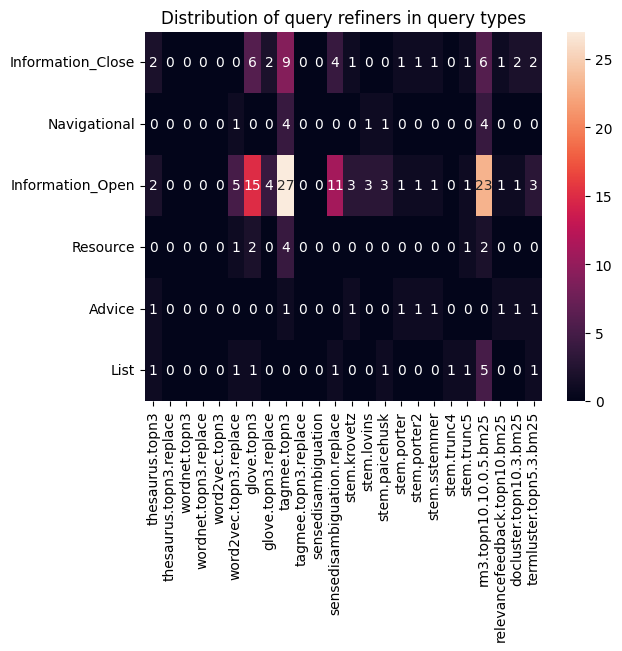
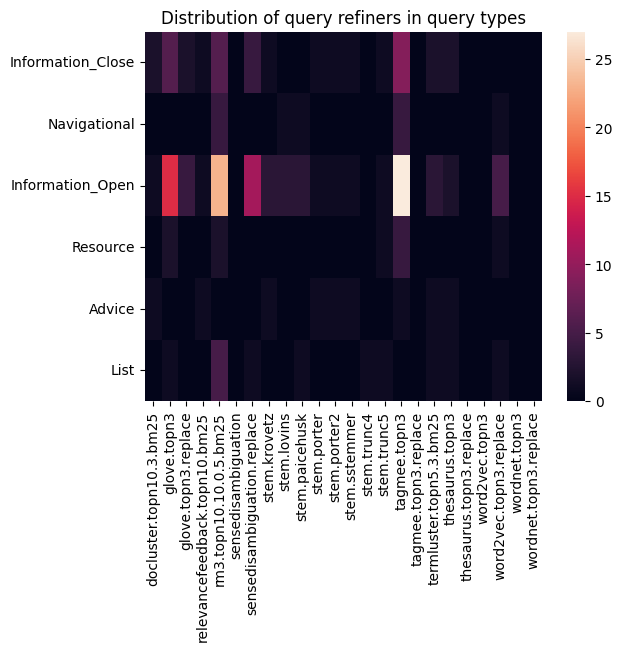
normalized heatmap (#22)

diff --git a/ds/trec09mq/refiners.qtypes.py b/ds/trec09mq/refiners.qtypes.py
@@ -24,51 +24,44 @@ def get_refiners_by_qtypes(all, dataset, qtypes, output):
         for i in range(1, row['star_model_count'] * 3, 3): result[row["Class"]][str(row[i + 3])] += 1
 
     result = pd.DataFrame.from_dict(result)
-    with open(output, 'wb') as f: pickle.dump(result, f)
+    with open(f'{output}refiners.qtypes.pkl', 'wb') as f: pickle.dump(result, f)
+    heatmap(result, f"{output}refiners.qtypes.png")
     return result
 
-def heatmap(matrix, output):
-    with open(matrix, 'rb') as f: df = pickle.load(f)
-    df=df.transpose()
-    sns.heatmap(df, annot=True)
+def heatmap(matrix, output, anot=False):
+    df=matrix.transpose()
+    sns.heatmap(df, annot=anot)
     plt.title("Distribution of query refiners in query types", fontsize=12)
     plt.savefig(output, bbox_inches='tight', dpi=100)
     plt.show()
 
-def normalize_by_qtype(all,raw_result,queryclass,output):
-    # load queryclass file and find the frequency
-    # laod the raw_result
-    # update the raw_result relative to the frequec
-    # dump the update (./'pkl)
-    # heat(update, output/ *png)
+def normalize_by_qtype(raw_result, queryclass, output):
     qtypes = pd.read_csv(queryclass, sep='\t', usecols=['Topic', 'Class'])
-    refiners = pd.read_csv(all, index_col=0, nrows=0).columns[3::3]
     qtypes_counts = Counter(qtypes['Class'])
+
     with open(raw_result, 'rb') as f: df = pickle.load(f)
+    df = df.astype(float, copy=False)
+    refiners = df.index.values
     for qt in qtypes_counts:
         for r in refiners:
-            df[qt][r]=(df[qt][r]*100)/qtypes_counts[qt]
-    with open(output, 'wb') as f: pickle.dump(df, f)
-    heatmap(output,"./normalized.frequency.png")
-
-
+            df[qt][r] = df[qt][r] / qtypes_counts[qt]
+    with open(f"{output}refiners.qtypes.norm.freq.pkl", 'wb') as f: pickle.dump(df, f)
+    heatmap(df, f"{output}refiners.qtypes.norm.freq.png")
+    return df
 
 def normalize(raw_result,output):
     with open(raw_result, 'rb') as f: df = pickle.load(f)
+    df = df.astype(float, copy=False)
     #n= (df - df.mean()) / df.std() #mean normalization
-    df=(df-df.min())/(df.max()-df.min()) #min-max normalization
-    with open(output, 'wb') as f: pickle.dump(df, f)
-    heatmap(output, "./normalized.min_max.png")
-
+    df = (df - df.min().min()) / (df.max().max() - df.min().min()) #min-max normalization
+    with open(f"{output}refiners.qtypes.norm.minmax.pkl", 'wb') as f: pickle.dump(df, f)
+    heatmap(df, f"{output}refiners.qtypes.norm.minmax.png")
+    return df
 
 if __name__ == "__main__":
-    output = 'refiners.qtypes.pkl'
-    output_norm_freq='normalized.frequency.pkl'
-    output_norm_min_max='normalized.min_max.pkl'
     result = get_refiners_by_qtypes('../../qe/output/trec09mq/topics.trec09mq.bm25.map.all.csv',
                                     '../../qe/output/trec09mq/topics.trec09mq.bm25.map.dataset.csv',
                                     './queryclasses',
-                                    output)
-    heatmap(output, "./refiners.qtypes.png")
-    normalize_by_qtype('../../qe/output/trec09mq/topics.trec09mq.bm25.map.all.csv',output,'./queryclasses',output_norm_freq)
-    normalize(output,output_norm_min_max)
+                                    './')
+    normalize_by_qtype('./refiners.qtypes.pkl', './queryclasses', './')
+    normalize('./refiners.qtypes.pkl', './')
